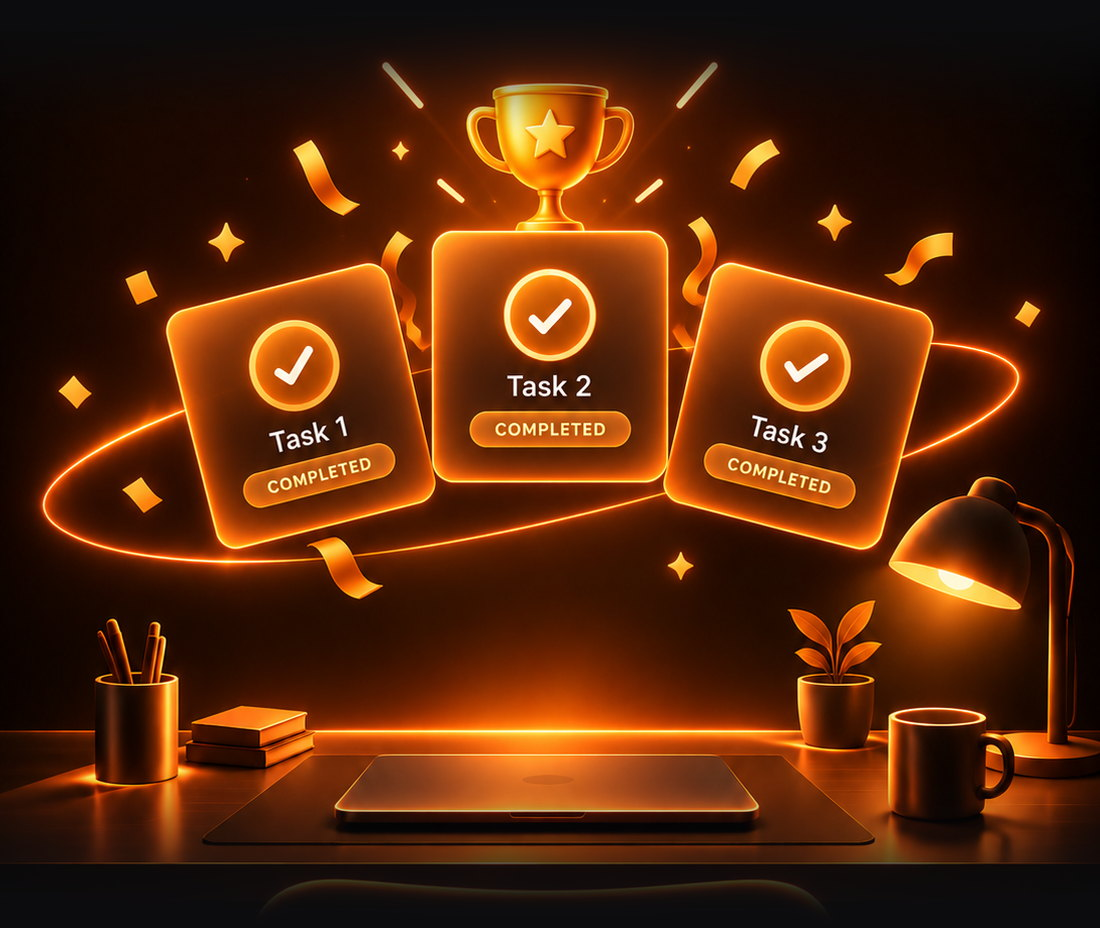
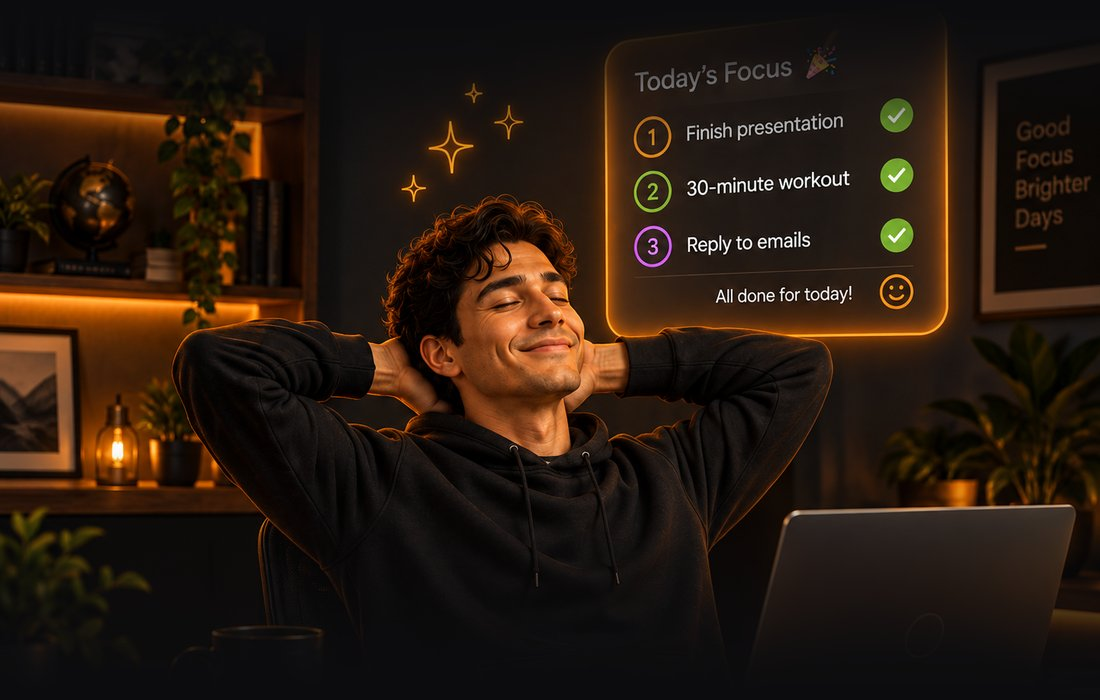
Move the site to /triad-app/; restore the celebration photo; no tap highlights

diff --git a/index.html b/index.html
@@ -6,12 +6,12 @@
 <meta name="theme-color" content="#0C0C0E">
 <link rel="icon" type="image/png" href="assets/logo.png">
 <link rel="apple-touch-icon" href="assets/logo.png">
-<link rel="canonical" href="https://harshitt108.github.io/triad-legal/">
+<link rel="canonical" href="https://harshitt108.github.io/triad-app/">
 <meta property="og:type" content="website">
 <meta property="og:title" content="Triad — three tasks a day, actually done">
 <meta property="og:description" content="Triad is a daily planner with one rule: commit to three tasks a day, focus on each one, and finish all three. Free, no sign-up, works offline.">
-<meta property="og:url" content="https://harshitt108.github.io/triad-legal/">
-<meta property="og:image" content="https://harshitt108.github.io/triad-legal/assets/og.jpg">
+<meta property="og:url" content="https://harshitt108.github.io/triad-app/">
+<meta property="og:image" content="https://harshitt108.github.io/triad-app/assets/og.jpg">
 <meta name="twitter:card" content="summary_large_image">
 <title>Triad</title>
 <meta name="description" content="Triad is a daily planner with one rule: commit to three tasks a day, focus on each one, and finish all three. Free, no sign-up, works offline.">
@@ -44,12 +44,14 @@
   --max: 1120px;
 }
 * { box-sizing: border-box; }
-html { scroll-behavior: smooth; }
+html { scroll-behavior: smooth; -webkit-tap-highlight-color: transparent; }
 @media (prefers-reduced-motion: reduce) { html { scroll-behavior: auto; } *, *::before, *::after { animation: none !important; transition: none !important; } }
 body { background: var(--base); color: var(--ink); font-family: var(--sans); font-size: 17px; line-height: 1.6; margin: 0; -webkit-font-smoothing: antialiased; overflow-x: hidden; }
 img { max-width: 100%; display: block; }
 a { color: inherit; }
+:focus { outline: none; }
 :focus-visible { outline: 2px solid var(--accent); outline-offset: 3px; border-radius: 6px; }
+.brand, .brand img, img { -webkit-user-select: none; user-select: none; -webkit-user-drag: none; }
 .wrap { max-width: var(--max); margin-inline: auto; padding-inline: var(--gutter); }
 h1, h2, h3 { font-family: var(--display); font-weight: 400; text-wrap: balance; margin: 0; letter-spacing: -0.01em; }
 h1 { font-size: clamp(44px, 7vw, 80px); line-height: 1.02; }
@@ -205,8 +207,9 @@ section { padding-block: clamp(72px, 10vw, 128px); }
 /* Celebration */
 .celebrate { padding-block: 0; position: relative; }
 .celebrate-inner { position: relative; border-radius: 24px; overflow: hidden; border: 1px solid var(--line); }
-.celebrate img { width: 100%; aspect-ratio: 1100 / 928; object-fit: cover; }
-.celebrate-copy { position: absolute; inset: auto 0 0 0; padding: clamp(24px, 5vw, 56px); display: grid; gap: 12px; max-width: 620px; background: linear-gradient(to top, rgba(12,12,14,.95), rgba(12,12,14,.7) 60%, transparent); }
+.celebrate img { width: 100%; aspect-ratio: 1100 / 700; object-fit: cover; }
+.celebrate-copy > * { max-width: 620px; }
+.celebrate-copy { position: absolute; inset: auto 0 0 0; padding: clamp(24px, 5vw, 56px); display: grid; gap: 12px; background: linear-gradient(to top, rgba(12,12,14,.95), rgba(12,12,14,.7) 60%, transparent); }
 .celebrate-copy p { color: var(--muted); }
 @media (max-width: 720px) { .celebrate-copy { position: static; background: var(--raised); } }
 
@@ -487,7 +490,7 @@ dialog::backdrop { background: rgba(0,0,0,.65); backdrop-filter: blur(4px); }
   <section class="celebrate" aria-labelledby="celebrate-h">
     <div class="wrap">
       <div class="celebrate-inner">
-        <img src="assets/done.jpg" alt="Three glowing task cards marked completed, with a trophy and confetti above a desk" loading="lazy">
+        <img src="assets/done.jpg" alt="A man leaning back, relaxed, beside a card showing all three of today's tasks checked off" loading="lazy">
         <div class="celebrate-copy">
           <span class="eyebrow">The best part of the day</span>
           <h2 id="celebrate-h">Only the third check <em>celebrates.</em></h2>
